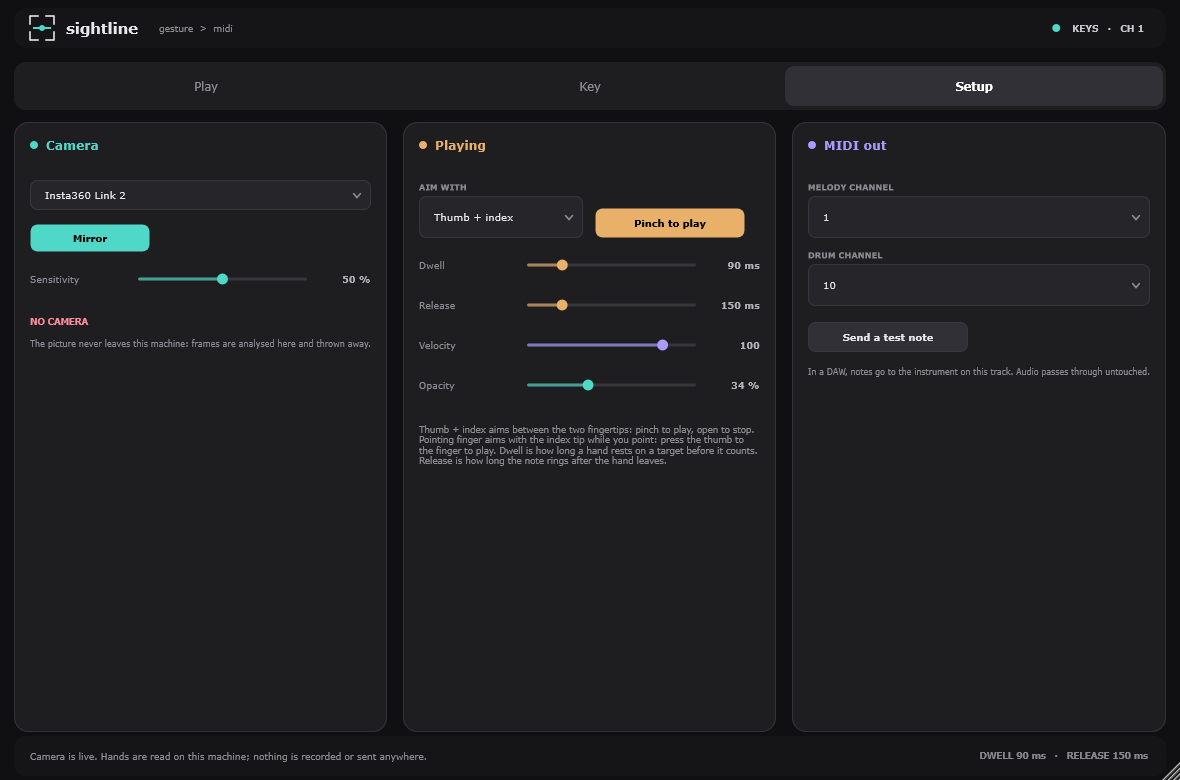
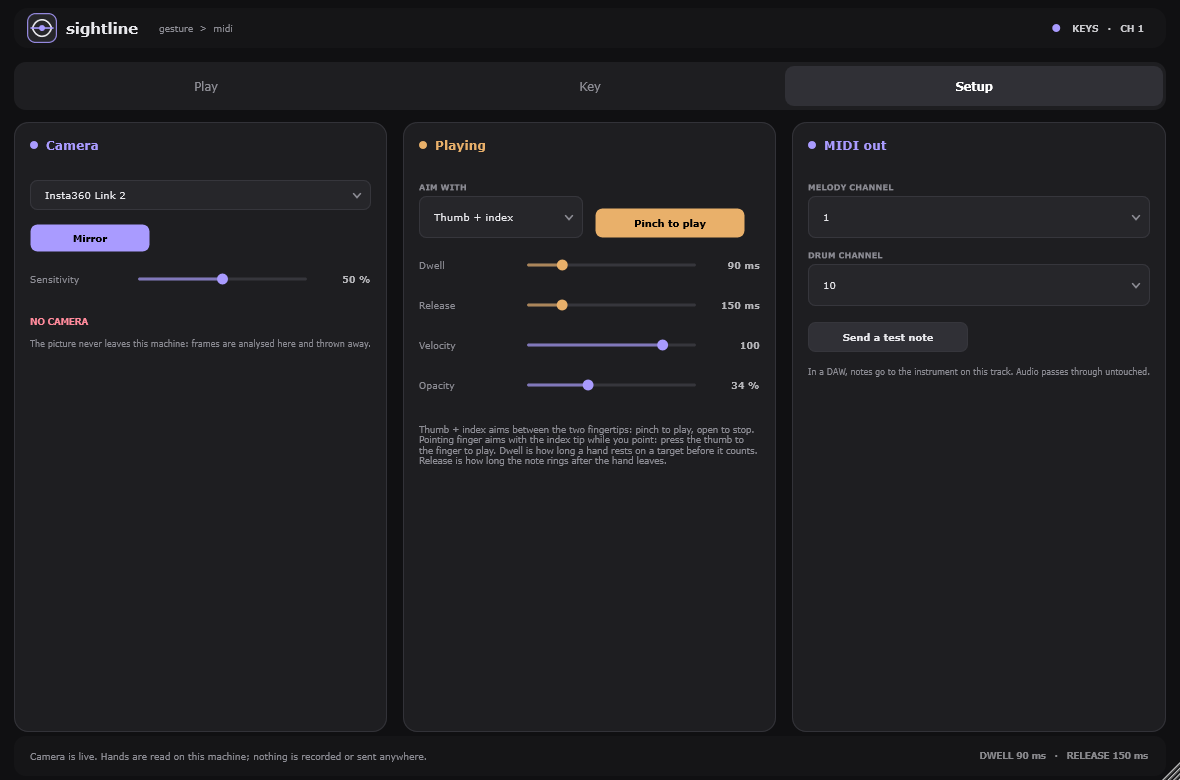
update branding

diff --git a/Source/ui/Theme.h b/Source/ui/Theme.h
@@ -19,7 +19,9 @@ namespace pal
     inline const juce::Colour dim       { 0xff8c8c94 };
     inline const juce::Colour teal      { 0xff4fd8c8 };
     inline const juce::Colour pink      { 0xffff8a9b };
-    inline const juce::Colour purple    { 0xffa99bff };
+    // The ioline mark's colour (Assets/icon.svg): the app's primary accent.
+    inline const juce::Colour brand     { 0xffa99bff };
+    inline const juce::Colour purple    { brand };
     inline const juce::Colour yellow    { 0xfff3e3a6 };
     inline const juce::Colour amber     { 0xffe9b06a };
 }
@@ -29,12 +31,12 @@ inline juce::Colour accentFor (Overlay o)
 {
     switch (o)
     {
-        case Overlay::Keys:  return pal::teal;
-        case Overlay::Scale: return pal::purple;
+        case Overlay::Keys:  return pal::brand;
+        case Overlay::Scale: return pal::teal;
         case Overlay::Drums: return pal::pink;
     }
 
-    return pal::teal;
+    return pal::brand;
 }
 
 inline juce::Font uiFont (float height, bool bold = false)
@@ -104,8 +106,8 @@ public:
         setColour (juce::TextEditor::focusedOutlineColourId, pal::purple);
 
         setColour (juce::Slider::backgroundColourId, pal::stroke);
-        setColour (juce::Slider::trackColourId, pal::teal.withAlpha (0.6f));
-        setColour (juce::Slider::thumbColourId, pal::teal);
+        setColour (juce::Slider::trackColourId, pal::brand.withAlpha (0.6f));
+        setColour (juce::Slider::thumbColourId, pal::brand);
 
         setColour (juce::TextButton::buttonColourId, pal::panelSoft);
         setColour (juce::TextButton::buttonOnColourId, pal::purple);

diff --git a/Source/ui/KeyPanel.cpp b/Source/ui/KeyPanel.cpp
@@ -50,8 +50,8 @@ void KeyPanel::paint (juce::Graphics& g)
 
     auto keyHeader = keyCard;
     auto railHeader = railCard;
-    drawSectionHeader (g, keyHeader.removeFromTop (46).withTrimmedLeft (16), "Key & Scale", pal::purple);
-    drawSectionHeader (g, railHeader.removeFromTop (46).withTrimmedLeft (16), "The rails", pal::teal);
+    drawSectionHeader (g, keyHeader.removeFromTop (46).withTrimmedLeft (16), "Key & Scale", pal::brand);
+    drawSectionHeader (g, railHeader.removeFromTop (46).withTrimmedLeft (16), "The rails", pal::brand);
 
     drawCaption (g, octaveCaption, "Octave");
 
@@ -196,7 +196,7 @@ void KeyPanel::drawPitchClassMap (juce::Graphics& g, juce::Rectangle<int> area)
         const bool member = (mask & (1u << pc)) != 0;
         const bool isRoot = pc == root;
 
-        g.setColour (member ? pal::purple.withAlpha (isRoot ? 0.95f : 0.55f) : pal::panelSoft);
+        g.setColour (member ? pal::brand.withAlpha (isRoot ? 0.95f : 0.55f) : pal::panelSoft);
         g.fillRoundedRectangle (cell.toFloat(), 7.0f);
 
         g.setColour (member ? juce::Colours::black.withAlpha (0.85f) : pal::dim.withAlpha (0.7f));

diff --git a/Source/ui/SetupPanel.h b/Source/ui/SetupPanel.h
@@ -29,15 +29,15 @@ private:
     std::function<void()> cameraChanged, testNote;
 
     juce::ComboBox cameraCombo;
-    TogglePill mirrorPill { "Mirror", pal::teal };
+    TogglePill mirrorPill { "Mirror", pal::brand };
     TogglePill builtInPill { "Built-in sound", pal::pink };
     TogglePill pinchPill { "Pinch to play", pal::amber };
 
-    SliderRow sensitivity { "Sensitivity", pal::teal, " %" };
+    SliderRow sensitivity { "Sensitivity", pal::brand, " %" };
     SliderRow dwell       { "Dwell", pal::amber, " ms" };
     SliderRow release     { "Release", pal::amber, " ms" };
-    SliderRow velocity    { "Velocity", pal::purple, "" };
-    SliderRow opacity     { "Opacity", pal::teal, " %" };
+    SliderRow velocity    { "Velocity", pal::brand, "" };
+    SliderRow opacity     { "Opacity", pal::brand, " %" };
     SliderRow volume      { "Volume", pal::pink, " %" };
 
     LabelledCombo melodyChan { "Melody channel" };

diff --git a/Source/ui/SetupPanel.cpp b/Source/ui/SetupPanel.cpp
@@ -118,11 +118,11 @@ void SetupPanel::paint (juce::Graphics& g)
 
     auto c1 = cameraCard, c2 = playCard, c3 = midiCard;
 
-    drawSectionHeader (g, c1.removeFromTop (46).withTrimmedLeft (16), "Camera", pal::teal);
+    drawSectionHeader (g, c1.removeFromTop (46).withTrimmedLeft (16), "Camera", pal::brand);
     drawSectionHeader (g, c2.removeFromTop (46).withTrimmedLeft (16), "Playing", pal::amber);
-    drawSectionHeader (g, c3.removeFromTop (46).withTrimmedLeft (16), "MIDI out", pal::purple);
+    drawSectionHeader (g, c3.removeFromTop (46).withTrimmedLeft (16), "MIDI out", pal::brand);
 
-    g.setColour (cameraLive ? pal::teal : pal::pink);
+    g.setColour (cameraLive ? pal::brand : pal::pink);
     g.setFont (uiFont (10.5f, true));
     g.drawFittedText (cameraStatus.toUpperCase(), cameraStatusArea, juce::Justification::centredLeft, 1);
 

diff --git a/Source/ui/StagePanel.cpp b/Source/ui/StagePanel.cpp
@@ -4,7 +4,7 @@ namespace sl::ui
 {
 
 StagePanel::StagePanel (SightLineProcessor& p)
-    : overlaySwitch ({ "Keys", "Scale", "Drums" }, pal::teal),
+    : overlaySwitch ({ "Keys", "Scale", "Drums" }, pal::brand),
       proc (p)
 {
     addAndMakeVisible (overlaySwitch);

diff --git a/README.md b/README.md
@@ -27,6 +27,16 @@ MIDI note number in its corner.
 
 ![Play page, Drums overlay](docs/screenshots/play-drums.png)
 
+**Play, tracking test**: each hand's skeleton over the picture, teal on the left rail and
+pink on the right, with the tracker's readings in the card.
+
+![Play page, tracking test](docs/screenshots/play-tracking.png)
+
+**Play, MIDI learn**: a drum pad listening for the next note, so a kit that does not use
+General MIDI can be mapped.
+
+![Play page, MIDI learn](docs/screenshots/play-learn.png)
+
 **Key**: key, scale and octave, and what each rail will play.
 
 ![Key page](docs/screenshots/key.png)
